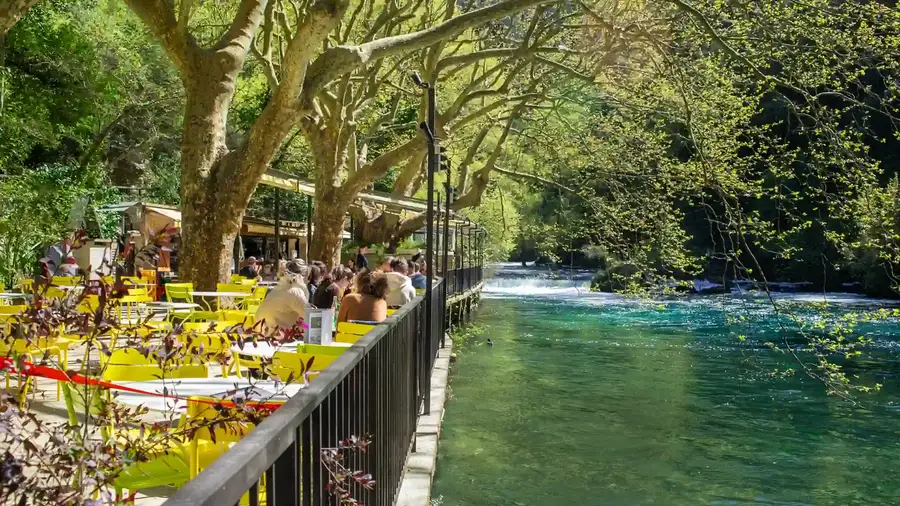
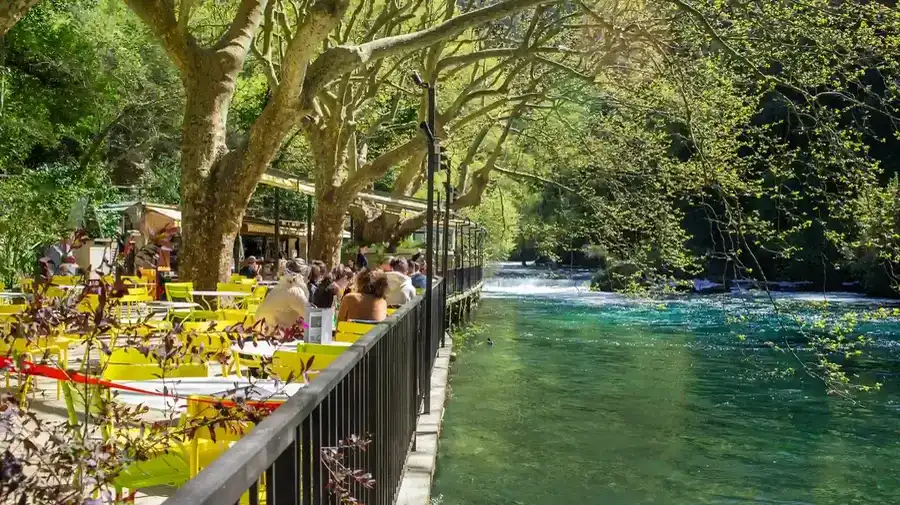
Philip : images recompressées, AOS CSS réduit 25KB->1KB, H4->H3 accessibilité

diff --git a/philip/css/aos.min.css b/philip/css/aos.min.css
@@ -1,1 +1,1 @@
-[data-aos][data-aos][data-aos-duration="50"],body[data-aos-duration="50"] [data-aos]{transition-duration:50ms}[data-aos][data-aos][data-aos-delay="50"],body[data-aos-delay="50"] [data-aos]{transition-delay:0}[data-aos][data-aos][data-aos-delay="50"].aos-animate,body[data-aos-delay="50"] [data-aos].aos-animate{transition-delay:50ms}[data-aos][data-aos][data-aos-duration="100"],body[data-aos-duration="100"] [data-aos]{transition-duration:.1s}[data-aos][data-aos][data-aos-delay="100"],body[data-aos-delay="100"] [data-aos]{transition-delay:0}[data-aos][data-aos][data-aos-delay="100"].aos-animate,body[data-aos-delay="100"] [data-aos].aos-animate{transition-delay:.1s}[data-aos][data-aos][data-aos-duration="150"],body[data-aos-duration="150"] [data-aos]{transition-duration:.15s}[data-aos][data-aos][data-aos-delay="150"],body[data-aos-delay="150"] [data-aos]{transition-delay:0}[data-aos][data-aos][data-aos-delay="150"].aos-animate,body[data-aos-delay="150"] [data-aos].aos-animate{transition-delay:.15s}[data-aos][data-aos][data-aos-duration="200"],body[data-aos-duration="200"] [data-aos]{transition-duration:.2s}[data-aos][data-aos][data-aos-delay="200"],body[data-aos-delay="200"] [data-aos]{transition-delay:0}[data-aos][data-aos][data-aos-delay="200"].aos-animate,body[data-aos-delay="200"] [data-aos].aos-animate{transition-delay:.2s}[data-aos][data-aos][data-aos-duration="250"],body[data-aos-duration="250"] [data-aos]{transition-duration:.25s}[data-aos][data-aos][data-aos-delay="250"],body[data-aos-delay="250"] [data-aos]{transition-delay:0}[data-aos][data-aos][data-aos-delay="250"].aos-animate,body[data-aos-delay="250"] [data-aos].aos-animate{transition-delay:.25s}[data-aos][data-aos][data-aos-duration="300"],body[data-aos-duration="300"] [data-aos]{transition-duration:.3s}[data-aos][data-aos][data-aos-delay="300"],body[data-aos-delay="300"] [data-aos]{transition-delay:0}[data-aos][data-aos][data-aos-delay="300"].aos-animate,body[data-aos-delay="300"] [data-aos].aos-animate{transition-delay:.3s}[data-aos][data-aos][data-aos-duration="350"],body[data-aos-duration="350"] [data-aos]{transition-duration:.35s}[data-aos][data-aos][data-aos-delay="350"],body[data-aos-delay="350"] [data-aos]{transition-delay:0}[data-aos][data-aos][data-aos-delay="350"].aos-animate,body[data-aos-delay="350"] [data-aos].aos-animate{transition-delay:.35s}[data-aos][data-aos][data-aos-duration="400"],body[data-aos-duration="400"] [data-aos]{transition-duration:.4s}[data-aos][data-aos][data-aos-delay="400"],body[data-aos-delay="400"] [data-aos]{transition-delay:0}[data-aos][data-aos][data-aos-delay="400"].aos-animate,body[data-aos-delay="400"] [data-aos].aos-animate{transition-delay:.4s}[data-aos][data-aos][data-aos-duration="450"],body[data-aos-duration="450"] [data-aos]{transition-duration:.45s}[data-aos][data-aos][data-aos-delay="450"],body[data-aos-delay="450"] [data-aos]{transition-delay:0}[data-aos][data-aos][data-aos-delay="450"].aos-animate,body[data-aos-delay="450"] [data-aos].aos-animate{transition-delay:.45s}[data-aos][data-aos][data-aos-duration="500"],body[data-aos-duration="500"] [data-aos]{transition-duration:.5s}[data-aos][data-aos][data-aos-delay="500"],body[data-aos-delay="500"] [data-aos]{transition-delay:0}[data-aos][data-aos][data-aos-delay="500"].aos-animate,body[data-aos-delay="500"] [data-aos].aos-animate{transition-delay:.5s}[data-aos][data-aos][data-aos-duration="550"],body[data-aos-duration="550"] [data-aos]{transition-duration:.55s}[data-aos][data-aos][data-aos-delay="550"],body[data-aos-delay="550"] [data-aos]{transition-delay:0}[data-aos][data-aos][data-aos-delay="550"].aos-animate,body[data-aos-delay="550"] [data-aos].aos-animate{transition-delay:.55s}[data-aos][data-aos][data-aos-duration="600"],body[data-aos-duration="600"] [data-aos]{transition-duration:.6s}[data-aos][data-aos][data-aos-delay="600"],body[data-aos-delay="600"] [data-aos]{transition-delay:0}[data-aos][data-aos][data-aos-delay="600"].aos-animate,body[data-aos-delay="600"] [data-aos].aos-animate{transition-delay:.6s}[data-aos][data-aos][data-aos-duration="650"],body[data-aos-duration="650"] [data-aos]{transition-duration:.65s}[data-aos][data-aos][data-aos-delay="650"],body[data-aos-delay="650"] [data-aos]{transition-delay:0}[data-aos][data-aos][data-aos-delay="650"].aos-animate,body[data-aos-delay="650"] [data-aos].aos-animate{transition-delay:.65s}[data-aos][data-aos][data-aos-duration="700"],body[data-aos-duration="700"] [data-aos]{transition-duration:.7s}[data-aos][data-aos][data-aos-delay="700"],body[data-aos-delay="700"] [data-aos]{transition-delay:0}[data-aos][data-aos][data-aos-delay="700"].aos-animate,body[data-aos-delay="700"] [data-aos].aos-animate{transition-delay:.7s}[data-aos][data-aos][data-aos-duration="750"],body[data-aos-duration="750"] [data-aos]{transition-duration:.75s}[data-aos][data-aos][data-aos-delay="750"],body[data-aos-delay="750"] [data-aos]{transition-delay:0}[data-aos][data-aos][data-aos-delay="750"].aos-animate,body[data-aos-delay="750"] [data-aos].aos-animate{transition-delay:.75s}[data-aos][data-aos][data-aos-duration="800"],body[data-aos-duration="800"] [data-aos]{transition-duration:.8s}[data-aos][data-aos][data-aos-delay="800"],body[data-aos-delay="800"] [data-aos]{transition-delay:0}[data-aos][data-aos][data-aos-delay="800"].aos-animate,body[data-aos-delay="800"] [data-aos].aos-animate{transition-delay:.8s}[data-aos][data-aos][data-aos-duration="850"],body[data-aos-duration="850"] [data-aos]{transition-duration:.85s}[data-aos][data-aos][data-aos-delay="850"],body[data-aos-delay="850"] [data-aos]{transition-delay:0}[data-aos][data-aos][data-aos-delay="850"].aos-animate,body[data-aos-delay="850"] [data-aos].aos-animate{transition-delay:.85s}[data-aos][data-aos][data-aos-duration="900"],body[data-aos-duration="900"] [data-aos]{transition-duration:.9s}[data-aos][data-aos][data-aos-delay="900"],body[data-aos-delay="900"] [data-aos]{transition-delay:0}[data-aos][data-aos][data-aos-delay="900"].aos-animate,body[data-aos-delay="900"] [data-aos].aos-animate{transition-delay:.9s}[data-aos][data-aos][data-aos-duration="950"],body[data-aos-duration="950"] [data-aos]{transition-duration:.95s}[data-aos][data-aos][data-aos-delay="950"],body[data-aos-delay="950"] [data-aos]{transition-delay:0}[data-aos][data-aos][data-aos-delay="950"].aos-animate,body[data-aos-delay="950"] [data-aos].aos-animate{transition-delay:.95s}[data-aos][data-aos][data-aos-duration="1000"],body[data-aos-duration="1000"] [data-aos]{transition-duration:1s}[data-aos][data-aos][data-aos-delay="1000"],body[data-aos-delay="1000"] [data-aos]{transition-delay:0}[data-aos][data-aos][data-aos-delay="1000"].aos-animate,body[data-aos-delay="1000"] [data-aos].aos-animate{transition-delay:1s}[data-aos][data-aos][data-aos-duration="1050"],body[data-aos-duration="1050"] [data-aos]{transition-duration:1.05s}[data-aos][data-aos][data-aos-delay="1050"],body[data-aos-delay="1050"] [data-aos]{transition-delay:0}[data-aos][data-aos][data-aos-delay="1050"].aos-animate,body[data-aos-delay="1050"] [data-aos].aos-animate{transition-delay:1.05s}[data-aos][data-aos][data-aos-duration="1100"],body[data-aos-duration="1100"] [data-aos]{transition-duration:1.1s}[data-aos][data-aos][data-aos-delay="1100"],body[data-aos-delay="1100"] [data-aos]{transition-delay:0}[data-aos][data-aos][data-aos-delay="1100"].aos-animate,body[data-aos-delay="1100"] [data-aos].aos-animate{transition-delay:1.1s}[data-aos][data-aos][data-aos-duration="1150"],body[data-aos-duration="1150"] [data-aos]{transition-duration:1.15s}[data-aos][data-aos][data-aos-delay="1150"],body[data-aos-delay="1150"] [data-aos]{transition-delay:0}[data-aos][data-aos][data-aos-delay="1150"].aos-animate,body[data-aos-delay="1150"] [data-aos].aos-animate{transition-delay:1.15s}[data-aos][data-aos][data-aos-duration="1200"],body[data-aos-duration="1200"] [data-aos]{transition-duration:1.2s}[data-aos][data-aos][data-aos-delay="1200"],body[data-aos-delay="1200"] [data-aos]{transition-delay:0}[data-aos][data-aos][data-aos-delay="1200"].aos-animate,body[data-aos-delay="1200"] [data-aos].aos-animate{transition-delay:1.2s}[data-aos][data-aos][data-aos-duration="1250"],body[data-aos-duration="1250"] [data-aos]{transition-duration:1.25s}[data-aos][data-aos][data-aos-delay="1250"],body[data-aos-delay="1250"] [data-aos]{transition-delay:0}[data-aos][data-aos][data-aos-delay="1250"].aos-animate,body[data-aos-delay="1250"] [data-aos].aos-animate{transition-delay:1.25s}[data-aos][data-aos][data-aos-duration="1300"],body[data-aos-duration="1300"] [data-aos]{transition-duration:1.3s}[data-aos][data-aos][data-aos-delay="1300"],body[data-aos-delay="1300"] [data-aos]{transition-delay:0}[data-aos][data-aos][data-aos-delay="1300"].aos-animate,body[data-aos-delay="1300"] [data-aos].aos-animate{transition-delay:1.3s}[data-aos][data-aos][data-aos-duration="1350"],body[data-aos-duration="1350"] [data-aos]{transition-duration:1.35s}[data-aos][data-aos][data-aos-delay="1350"],body[data-aos-delay="1350"] [data-aos]{transition-delay:0}[data-aos][data-aos][data-aos-delay="1350"].aos-animate,body[data-aos-delay="1350"] [data-aos].aos-animate{transition-delay:1.35s}[data-aos][data-aos][data-aos-duration="1400"],body[data-aos-duration="1400"] [data-aos]{transition-duration:1.4s}[data-aos][data-aos][data-aos-delay="1400"],body[data-aos-delay="1400"] [data-aos]{transition-delay:0}[data-aos][data-aos][data-aos-delay="1400"].aos-animate,body[data-aos-delay="1400"] [data-aos].aos-animate{transition-delay:1.4s}[data-aos][data-aos][data-aos-duration="1450"],body[data-aos-duration="1450"] [data-aos]{transition-duration:1.45s}[data-aos][data-aos][data-aos-delay="1450"],body[data-aos-delay="1450"] [data-aos]{transition-delay:0}[data-aos][data-aos][data-aos-delay="1450"].aos-animate,body[data-aos-delay="1450"] [data-aos].aos-animate{transition-delay:1.45s}[data-aos][data-aos][data-aos-duration="1500"],body[data-aos-duration="1500"] [data-aos]{transition-duration:1.5s}[data-aos][data-aos][data-aos-delay="1500"],body[data-aos-delay="1500"] [data-aos]{transition-delay:0}[data-aos][data-aos][data-aos-delay="1500"].aos-animate,body[data-aos-delay="1500"] [data-aos].aos-animate{transition-delay:1.5s}[data-aos][data-aos][data-aos-duration="1550"],body[data-aos-duration="1550"] [data-aos]{transition-duration:1.55s}[data-aos][data-aos][data-aos-delay="1550"],body[data-aos-delay="1550"] [data-aos]{transition-delay:0}[data-aos][data-aos][data-aos-delay="1550"].aos-animate,body[data-aos-delay="1550"] [data-aos].aos-animate{transition-delay:1.55s}[data-aos][data-aos][data-aos-duration="1600"],body[data-aos-duration="1600"] [data-aos]{transition-duration:1.6s}[data-aos][data-aos][data-aos-delay="1600"],body[data-aos-delay="1600"] [data-aos]{transition-delay:0}[data-aos][data-aos][data-aos-delay="1600"].aos-animate,body[data-aos-delay="1600"] [data-aos].aos-animate{transition-delay:1.6s}[data-aos][data-aos][data-aos-duration="1650"],body[data-aos-duration="1650"] [data-aos]{transition-duration:1.65s}[data-aos][data-aos][data-aos-delay="1650"],body[data-aos-delay="1650"] [data-aos]{transition-delay:0}[data-aos][data-aos][data-aos-delay="1650"].aos-animate,body[data-aos-delay="1650"] [data-aos].aos-animate{transition-delay:1.65s}[data-aos][data-aos][data-aos-duration="1700"],body[data-aos-duration="1700"] [data-aos]{transition-duration:1.7s}[data-aos][data-aos][data-aos-delay="1700"],body[data-aos-delay="1700"] [data-aos]{transition-delay:0}[data-aos][data-aos][data-aos-delay="1700"].aos-animate,body[data-aos-delay="1700"] [data-aos].aos-animate{transition-delay:1.7s}[data-aos][data-aos][data-aos-duration="1750"],body[data-aos-duration="1750"] [data-aos]{transition-duration:1.75s}[data-aos][data-aos][data-aos-delay="1750"],body[data-aos-delay="1750"] [data-aos]{transition-delay:0}[data-aos][data-aos][data-aos-delay="1750"].aos-animate,body[data-aos-delay="1750"] [data-aos].aos-animate{transition-delay:1.75s}[data-aos][data-aos][data-aos-duration="1800"],body[data-aos-duration="1800"] [data-aos]{transition-duration:1.8s}[data-aos][data-aos][data-aos-delay="1800"],body[data-aos-delay="1800"] [data-aos]{transition-delay:0}[data-aos][data-aos][data-aos-delay="1800"].aos-animate,body[data-aos-delay="1800"] [data-aos].aos-animate{transition-delay:1.8s}[data-aos][data-aos][data-aos-duration="1850"],body[data-aos-duration="1850"] [data-aos]{transition-duration:1.85s}[data-aos][data-aos][data-aos-delay="1850"],body[data-aos-delay="1850"] [data-aos]{transition-delay:0}[data-aos][data-aos][data-aos-delay="1850"].aos-animate,body[data-aos-delay="1850"] [data-aos].aos-animate{transition-delay:1.85s}[data-aos][data-aos][data-aos-duration="1900"],body[data-aos-duration="1900"] [data-aos]{transition-duration:1.9s}[data-aos][data-aos][data-aos-delay="1900"],body[data-aos-delay="1900"] [data-aos]{transition-delay:0}[data-aos][data-aos][data-aos-delay="1900"].aos-animate,body[data-aos-delay="1900"] [data-aos].aos-animate{transition-delay:1.9s}[data-aos][data-aos][data-aos-duration="1950"],body[data-aos-duration="1950"] [data-aos]{transition-duration:1.95s}[data-aos][data-aos][data-aos-delay="1950"],body[data-aos-delay="1950"] [data-aos]{transition-delay:0}[data-aos][data-aos][data-aos-delay="1950"].aos-animate,body[data-aos-delay="1950"] [data-aos].aos-animate{transition-delay:1.95s}[data-aos][data-aos][data-aos-duration="2000"],body[data-aos-duration="2000"] [data-aos]{transition-duration:2s}[data-aos][data-aos][data-aos-delay="2000"],body[data-aos-delay="2000"] [data-aos]{transition-delay:0}[data-aos][data-aos][data-aos-delay="2000"].aos-animate,body[data-aos-delay="2000"] [data-aos].aos-animate{transition-delay:2s}[data-aos][data-aos][data-aos-duration="2050"],body[data-aos-duration="2050"] [data-aos]{transition-duration:2.05s}[data-aos][data-aos][data-aos-delay="2050"],body[data-aos-delay="2050"] [data-aos]{transition-delay:0}[data-aos][data-aos][data-aos-delay="2050"].aos-animate,body[data-aos-delay="2050"] [data-aos].aos-animate{transition-delay:2.05s}[data-aos][data-aos][data-aos-duration="2100"],body[data-aos-duration="2100"] [data-aos]{transition-duration:2.1s}[data-aos][data-aos][data-aos-delay="2100"],body[data-aos-delay="2100"] [data-aos]{transition-delay:0}[data-aos][data-aos][data-aos-delay="2100"].aos-animate,body[data-aos-delay="2100"] [data-aos].aos-animate{transition-delay:2.1s}[data-aos][data-aos][data-aos-duration="2150"],body[data-aos-duration="2150"] [data-aos]{transition-duration:2.15s}[data-aos][data-aos][data-aos-delay="2150"],body[data-aos-delay="2150"] [data-aos]{transition-delay:0}[data-aos][data-aos][data-aos-delay="2150"].aos-animate,body[data-aos-delay="2150"] [data-aos].aos-animate{transition-delay:2.15s}[data-aos][data-aos][data-aos-duration="2200"],body[data-aos-duration="2200"] [data-aos]{transition-duration:2.2s}[data-aos][data-aos][data-aos-delay="2200"],body[data-aos-delay="2200"] [data-aos]{transition-delay:0}[data-aos][data-aos][data-aos-delay="2200"].aos-animate,body[data-aos-delay="2200"] [data-aos].aos-animate{transition-delay:2.2s}[data-aos][data-aos][data-aos-duration="2250"],body[data-aos-duration="2250"] [data-aos]{transition-duration:2.25s}[data-aos][data-aos][data-aos-delay="2250"],body[data-aos-delay="2250"] [data-aos]{transition-delay:0}[data-aos][data-aos][data-aos-delay="2250"].aos-animate,body[data-aos-delay="2250"] [data-aos].aos-animate{transition-delay:2.25s}[data-aos][data-aos][data-aos-duration="2300"],body[data-aos-duration="2300"] [data-aos]{transition-duration:2.3s}[data-aos][data-aos][data-aos-delay="2300"],body[data-aos-delay="2300"] [data-aos]{transition-delay:0}[data-aos][data-aos][data-aos-delay="2300"].aos-animate,body[data-aos-delay="2300"] [data-aos].aos-animate{transition-delay:2.3s}[data-aos][data-aos][data-aos-duration="2350"],body[data-aos-duration="2350"] [data-aos]{transition-duration:2.35s}[data-aos][data-aos][data-aos-delay="2350"],body[data-aos-delay="2350"] [data-aos]{transition-delay:0}[data-aos][data-aos][data-aos-delay="2350"].aos-animate,body[data-aos-delay="2350"] [data-aos].aos-animate{transition-delay:2.35s}[data-aos][data-aos][data-aos-duration="2400"],body[data-aos-duration="2400"] [data-aos]{transition-duration:2.4s}[data-aos][data-aos][data-aos-delay="2400"],body[data-aos-delay="2400"] [data-aos]{transition-delay:0}[data-aos][data-aos][data-aos-delay="2400"].aos-animate,body[data-aos-delay="2400"] [data-aos].aos-animate{transition-delay:2.4s}[data-aos][data-aos][data-aos-duration="2450"],body[data-aos-duration="2450"] [data-aos]{transition-duration:2.45s}[data-aos][data-aos][data-aos-delay="2450"],body[data-aos-delay="2450"] [data-aos]{transition-delay:0}[data-aos][data-aos][data-aos-delay="2450"].aos-animate,body[data-aos-delay="2450"] [data-aos].aos-animate{transition-delay:2.45s}[data-aos][data-aos][data-aos-duration="2500"],body[data-aos-duration="2500"] [data-aos]{transition-duration:2.5s}[data-aos][data-aos][data-aos-delay="2500"],body[data-aos-delay="2500"] [data-aos]{transition-delay:0}[data-aos][data-aos][data-aos-delay="2500"].aos-animate,body[data-aos-delay="2500"] [data-aos].aos-animate{transition-delay:2.5s}[data-aos][data-aos][data-aos-duration="2550"],body[data-aos-duration="2550"] [data-aos]{transition-duration:2.55s}[data-aos][data-aos][data-aos-delay="2550"],body[data-aos-delay="2550"] [data-aos]{transition-delay:0}[data-aos][data-aos][data-aos-delay="2550"].aos-animate,body[data-aos-delay="2550"] [data-aos].aos-animate{transition-delay:2.55s}[data-aos][data-aos][data-aos-duration="2600"],body[data-aos-duration="2600"] [data-aos]{transition-duration:2.6s}[data-aos][data-aos][data-aos-delay="2600"],body[data-aos-delay="2600"] [data-aos]{transition-delay:0}[data-aos][data-aos][data-aos-delay="2600"].aos-animate,body[data-aos-delay="2600"] [data-aos].aos-animate{transition-delay:2.6s}[data-aos][data-aos][data-aos-duration="2650"],body[data-aos-duration="2650"] [data-aos]{transition-duration:2.65s}[data-aos][data-aos][data-aos-delay="2650"],body[data-aos-delay="2650"] [data-aos]{transition-delay:0}[data-aos][data-aos][data-aos-delay="2650"].aos-animate,body[data-aos-delay="2650"] [data-aos].aos-animate{transition-delay:2.65s}[data-aos][data-aos][data-aos-duration="2700"],body[data-aos-duration="2700"] [data-aos]{transition-duration:2.7s}[data-aos][data-aos][data-aos-delay="2700"],body[data-aos-delay="2700"] [data-aos]{transition-delay:0}[data-aos][data-aos][data-aos-delay="2700"].aos-animate,body[data-aos-delay="2700"] [data-aos].aos-animate{transition-delay:2.7s}[data-aos][data-aos][data-aos-duration="2750"],body[data-aos-duration="2750"] [data-aos]{transition-duration:2.75s}[data-aos][data-aos][data-aos-delay="2750"],body[data-aos-delay="2750"] [data-aos]{transition-delay:0}[data-aos][data-aos][data-aos-delay="2750"].aos-animate,body[data-aos-delay="2750"] [data-aos].aos-animate{transition-delay:2.75s}[data-aos][data-aos][data-aos-duration="2800"],body[data-aos-duration="2800"] [data-aos]{transition-duration:2.8s}[data-aos][data-aos][data-aos-delay="2800"],body[data-aos-delay="2800"] [data-aos]{transition-delay:0}[data-aos][data-aos][data-aos-delay="2800"].aos-animate,body[data-aos-delay="2800"] [data-aos].aos-animate{transition-delay:2.8s}[data-aos][data-aos][data-aos-duration="2850"],body[data-aos-duration="2850"] [data-aos]{transition-duration:2.85s}[data-aos][data-aos][data-aos-delay="2850"],body[data-aos-delay="2850"] [data-aos]{transition-delay:0}[data-aos][data-aos][data-aos-delay="2850"].aos-animate,body[data-aos-delay="2850"] [data-aos].aos-animate{transition-delay:2.85s}[data-aos][data-aos][data-aos-duration="2900"],body[data-aos-duration="2900"] [data-aos]{transition-duration:2.9s}[data-aos][data-aos][data-aos-delay="2900"],body[data-aos-delay="2900"] [data-aos]{transition-delay:0}[data-aos][data-aos][data-aos-delay="2900"].aos-animate,body[data-aos-delay="2900"] [data-aos].aos-animate{transition-delay:2.9s}[data-aos][data-aos][data-aos-duration="2950"],body[data-aos-duration="2950"] [data-aos]{transition-duration:2.95s}[data-aos][data-aos][data-aos-delay="2950"],body[data-aos-delay="2950"] [data-aos]{transition-delay:0}[data-aos][data-aos][data-aos-delay="2950"].aos-animate,body[data-aos-delay="2950"] [data-aos].aos-animate{transition-delay:2.95s}[data-aos][data-aos][data-aos-duration="3000"],body[data-aos-duration="3000"] [data-aos]{transition-duration:3s}[data-aos][data-aos][data-aos-delay="3000"],body[data-aos-delay="3000"] [data-aos]{transition-delay:0}[data-aos][data-aos][data-aos-delay="3000"].aos-animate,body[data-aos-delay="3000"] [data-aos].aos-animate{transition-delay:3s}[data-aos][data-aos][data-aos-easing=linear],body[data-aos-easing=linear] [data-aos]{transition-timing-function:cubic-bezier(.25,.25,.75,.75)}[data-aos][data-aos][data-aos-easing=ease],body[data-aos-easing=ease] [data-aos]{transition-timing-function:ease}[data-aos][data-aos][data-aos-easing=ease-in],body[data-aos-easing=ease-in] [data-aos]{transition-timing-function:ease-in}[data-aos][data-aos][data-aos-easing=ease-out],body[data-aos-easing=ease-out] [data-aos]{transition-timing-function:ease-out}[data-aos][data-aos][data-aos-easing=ease-in-out],body[data-aos-easing=ease-in-out] [data-aos]{transition-timing-function:ease-in-out}[data-aos][data-aos][data-aos-easing=ease-in-back],body[data-aos-easing=ease-in-back] [data-aos]{transition-timing-function:cubic-bezier(.6,-.28,.735,.045)}[data-aos][data-aos][data-aos-easing=ease-out-back],body[data-aos-easing=ease-out-back] [data-aos]{transition-timing-function:cubic-bezier(.175,.885,.32,1.275)}[data-aos][data-aos][data-aos-easing=ease-in-out-back],body[data-aos-easing=ease-in-out-back] [data-aos]{transition-timing-function:cubic-bezier(.68,-.55,.265,1.55)}[data-aos][data-aos][data-aos-easing=ease-in-sine],body[data-aos-easing=ease-in-sine] [data-aos]{transition-timing-function:cubic-bezier(.47,0,.745,.715)}[data-aos][data-aos][data-aos-easing=ease-out-sine],body[data-aos-easing=ease-out-sine] [data-aos]{transition-timing-function:cubic-bezier(.39,.575,.565,1)}[data-aos][data-aos][data-aos-easing=ease-in-out-sine],body[data-aos-easing=ease-in-out-sine] [data-aos]{transition-timing-function:cubic-bezier(.445,.05,.55,.95)}[data-aos][data-aos][data-aos-easing=ease-in-quad],body[data-aos-easing=ease-in-quad] [data-aos]{transition-timing-function:cubic-bezier(.55,.085,.68,.53)}[data-aos][data-aos][data-aos-easing=ease-out-quad],body[data-aos-easing=ease-out-quad] [data-aos]{transition-timing-function:cubic-bezier(.25,.46,.45,.94)}[data-aos][data-aos][data-aos-easing=ease-in-out-quad],body[data-aos-easing=ease-in-out-quad] [data-aos]{transition-timing-function:cubic-bezier(.455,.03,.515,.955)}[data-aos][data-aos][data-aos-easing=ease-in-cubic],body[data-aos-easing=ease-in-cubic] [data-aos]{transition-timing-function:cubic-bezier(.55,.085,.68,.53)}[data-aos][data-aos][data-aos-easing=ease-out-cubic],body[data-aos-easing=ease-out-cubic] [data-aos]{transition-timing-function:cubic-bezier(.25,.46,.45,.94)}[data-aos][data-aos][data-aos-easing=ease-in-out-cubic],body[data-aos-easing=ease-in-out-cubic] [data-aos]{transition-timing-function:cubic-bezier(.455,.03,.515,.955)}[data-aos][data-aos][data-aos-easing=ease-in-quart],body[data-aos-easing=ease-in-quart] [data-aos]{transition-timing-function:cubic-bezier(.55,.085,.68,.53)}[data-aos][data-aos][data-aos-easing=ease-out-quart],body[data-aos-easing=ease-out-quart] [data-aos]{transition-timing-function:cubic-bezier(.25,.46,.45,.94)}[data-aos][data-aos][data-aos-easing=ease-in-out-quart],body[data-aos-easing=ease-in-out-quart] [data-aos]{transition-timing-function:cubic-bezier(.455,.03,.515,.955)}[data-aos^=fade][data-aos^=fade]{opacity:0;transition-property:opacity,transform}[data-aos^=fade][data-aos^=fade].aos-animate{opacity:1;transform:translateZ(0)}[data-aos=fade-up]{transform:translate3d(0,100px,0)}[data-aos=fade-down]{transform:translate3d(0,-100px,0)}[data-aos=fade-right]{transform:translate3d(-100px,0,0)}[data-aos=fade-left]{transform:translate3d(100px,0,0)}[data-aos=fade-up-right]{transform:translate3d(-100px,100px,0)}[data-aos=fade-up-left]{transform:translate3d(100px,100px,0)}[data-aos=fade-down-right]{transform:translate3d(-100px,-100px,0)}[data-aos=fade-down-left]{transform:translate3d(100px,-100px,0)}[data-aos^=zoom][data-aos^=zoom]{opacity:0;transition-property:opacity,transform}[data-aos^=zoom][data-aos^=zoom].aos-animate{opacity:1;transform:translateZ(0) scale(1)}[data-aos=zoom-in]{transform:scale(.6)}[data-aos=zoom-in-up]{transform:translate3d(0,100px,0) scale(.6)}[data-aos=zoom-in-down]{transform:translate3d(0,-100px,0) scale(.6)}[data-aos=zoom-in-right]{transform:translate3d(-100px,0,0) scale(.6)}[data-aos=zoom-in-left]{transform:translate3d(100px,0,0) scale(.6)}[data-aos=zoom-out]{transform:scale(1.2)}[data-aos=zoom-out-up]{transform:translate3d(0,100px,0) scale(1.2)}[data-aos=zoom-out-down]{transform:translate3d(0,-100px,0) scale(1.2)}[data-aos=zoom-out-right]{transform:translate3d(-100px,0,0) scale(1.2)}[data-aos=zoom-out-left]{transform:translate3d(100px,0,0) scale(1.2)}[data-aos^=slide][data-aos^=slide]{transition-property:transform}[data-aos^=slide][data-aos^=slide].aos-animate{transform:translateZ(0)}[data-aos=slide-up]{transform:translate3d(0,100%,0)}[data-aos=slide-down]{transform:translate3d(0,-100%,0)}[data-aos=slide-right]{transform:translate3d(-100%,0,0)}[data-aos=slide-left]{transform:translate3d(100%,0,0)}[data-aos^=flip][data-aos^=flip]{backface-visibility:hidden;transition-property:transform}[data-aos=flip-left]{transform:perspective(2500px) rotateY(-100deg)}[data-aos=flip-left].aos-animate{transform:perspective(2500px) rotateY(0)}[data-aos=flip-right]{transform:perspective(2500px) rotateY(100deg)}[data-aos=flip-right].aos-animate{transform:perspective(2500px) rotateY(0)}[data-aos=flip-up]{transform:perspective(2500px) rotateX(-100deg)}[data-aos=flip-up].aos-animate{transform:perspective(2500px) rotateX(0)}[data-aos=flip-down]{transform:perspective(2500px) rotateX(100deg)}[data-aos=flip-down].aos-animate{transform:perspective(2500px) rotateX(0)}
+[data-aos]{pointer-events:none}[data-aos].aos-animate{pointer-events:auto}[data-aos^=fade][data-aos^=fade]{opacity:0;transition-property:opacity,transform}[data-aos^=fade][data-aos^=fade].aos-animate{opacity:1;transform:translateZ(0)}[data-aos=fade-up]{transform:translate3d(0,100px,0)}[data-aos=fade-right]{transform:translate3d(-100px,0,0)}[data-aos=fade-left]{transform:translate3d(100px,0,0)}[data-aos][data-aos][data-aos-duration="680"]{transition-duration:.68s}

diff --git a/philip/index.html b/philip/index.html
@@ -885,7 +885,7 @@
       border-radius: 8px;
     }
     .info-block { margin-bottom: 1.8rem; }
-    .info-block h4 {
+    .info-block h3 {
       font-family: var(--hf);
       font-size: .98rem;
       font-weight: 700;
@@ -1492,12 +1492,12 @@
       </div>
       <div data-aos="fade-left">
         <div class="info-block">
-          <h4><svg width="15" height="15" viewBox="0 0 24 24" fill="none" stroke="var(--accent)" stroke-width="2" stroke-linecap="round" stroke-linejoin="round"><path d="M21 10c0 7-9 13-9 13S3 17 3 10a9 9 0 0118 0z"/><circle cx="12" cy="10" r="3"/></svg> Adresse</h4>
+          <h3 class="info-h"><svg width="15" height="15" viewBox="0 0 24 24" fill="none" stroke="var(--accent)" stroke-width="2" stroke-linecap="round" stroke-linejoin="round"><path d="M21 10c0 7-9 13-9 13S3 17 3 10a9 9 0 0118 0z"/><circle cx="12" cy="10" r="3"/></svg> Adresse</h3>
           <p>510 Chemin de la Fontaine<br>84800 Fontaine-de-Vaucluse</p>
           <p style="margin-top:6px;font-size:.82rem;font-style:italic">Dernier restaurant avant la source. Parking P2 à 300 m.</p>
         </div>
         <div class="info-block">
-          <h4><svg width="15" height="15" viewBox="0 0 24 24" fill="none" stroke="var(--accent)" stroke-width="2" stroke-linecap="round" stroke-linejoin="round"><rect x="3" y="4" width="18" height="18" rx="2"/><line x1="16" y1="2" x2="16" y2="6"/><line x1="8" y1="2" x2="8" y2="6"/><line x1="3" y1="10" x2="21" y2="10"/></svg> Saison et horaires</h4>
+          <h3 class="info-h"><svg width="15" height="15" viewBox="0 0 24 24" fill="none" stroke="var(--accent)" stroke-width="2" stroke-linecap="round" stroke-linejoin="round"><rect x="3" y="4" width="18" height="18" rx="2"/><line x1="16" y1="2" x2="16" y2="6"/><line x1="8" y1="2" x2="8" y2="6"/><line x1="3" y1="10" x2="21" y2="10"/></svg> Saison et horaires</h3>
           <ul>
             <li>Ouvert du 1er avril au 30 septembre</li>
             <li>Tous les jours de 10h à 20h30</li>
